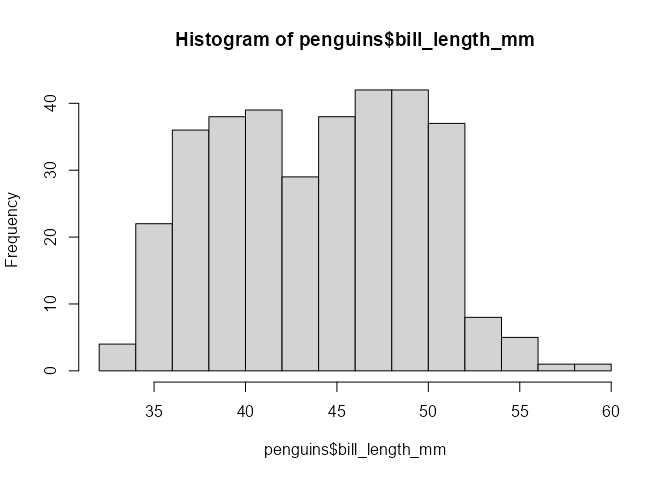
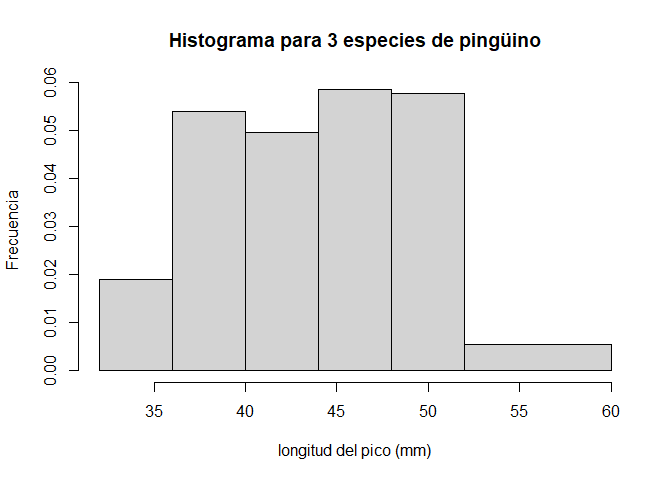
v0.1.1

diff --git a/Visualizacion_en_R.md b/Visualizacion_en_R.md
@@ -65,10 +65,10 @@ ejes y sus etiquetas, y título principal.
 hist(penguins$bill_length_mm)
 ```
 
-![](Visualizacion_en_R_files/figure-commonmark/unnamed-chunk-3-1.png)
+![](Visualizacion_en_R_files/figure-commonmark/unnamed-chunk-2-1.png)
 
 Muchos de estos elementos se pueden personalizar a través de argumentos
-de la función `hist()`. Por ejemplo el título (`main`), las etiquetas de
+de la función `hist()`. Por ejemplo el título (`main`), los nombres de
 los ejes (`xlab`, `ylab`), y los límites de los intervalos (`breaks`).
 
 ``` r
@@ -77,26 +77,26 @@ hist(penguins$bill_length_mm, xlab = "longitud del pico (mm)", ylab = "Frecuenci
      breaks = c(seq(32, 52, 4), 60))
 ```
 
-![](Visualizacion_en_R_files/figure-commonmark/unnamed-chunk-4-1.png)
+![](Visualizacion_en_R_files/figure-commonmark/unnamed-chunk-3-1.png)
 
-Como puede verse, los formación de los intervalos es muy flexible (ver
-el valor del argumento `breaks`).
+Como puede verse, la formación de los intervalos es muy flexible (ver el
+valor del argumento `breaks`).
 
 ### Gráficas de cajas y bigotes
 
 El *boxplot* también da una idea de la distribución de una variable
 numérica, en este caso para cada una de las tres especies de pingüino,
 lo cual se especifica con la tilde o virgulilla (`~`) y se lee “longitud
-del pico **en función** de la especie”. Adicionalmente esta función
+del pico **en función** de la especie”. Adicionalmente, esta función
 incorpora el argumento `data` que permite especificar en donde están las
-variables a graficar. Las etiquetas de los ejes se pueden personalizar
-con los mismos argumentos mostrados antes.
+variables a graficar. Los nombres de los ejes se pueden personalizar con
+los mismos argumentos mostrados antes.
 
 ``` r
 boxplot(bill_length_mm ~ species, data = penguins)
 ```
 
-![](Visualizacion_en_R_files/figure-commonmark/unnamed-chunk-5-1.png)
+![](Visualizacion_en_R_files/figure-commonmark/unnamed-chunk-4-1.png)
 
 ### Gráficas de dispersión
 
@@ -108,7 +108,7 @@ primera se considera como la variable `x`.
 plot(x = penguins$bill_length_mm, y = penguins$bill_depth_mm)
 ```
 
-![](Visualizacion_en_R_files/figure-commonmark/unnamed-chunk-6-1.png)
+![](Visualizacion_en_R_files/figure-commonmark/unnamed-chunk-5-1.png)
 
 Existen muchas maneras de personalizar una gráfica como la anterior. Por
 ejemplo, sabiendo que se tienen datos de tres especies, podemos utilizar
@@ -120,16 +120,22 @@ plot(penguins$bill_length_mm, penguins$bill_depth_mm,
      las = 1, pch = 16, col = penguins$species)
 ```
 
-![](Visualizacion_en_R_files/figure-commonmark/unnamed-chunk-7-1.png)
+![](Visualizacion_en_R_files/figure-commonmark/unnamed-chunk-6-1.png)
 
 El uso de `col = penguins$species` permite definir los colores porque la
 especie esta codificada como un factor (ver el resultado de evaluar
-`class(penguins$species)`). Otra forma de personalizar la figura podría
-ser incorporar transparencias a los colores y símbolos diferentes por
-especie. Para ello el ejemplo de abajo hace uso de la función `rgb()`
-que requiere especificar 3 valores correspondientes al rojo, verde y
-azul, así como un cuarto valor para la transparencia (todos entre 0 y
-1).
+`class(penguins$species)`). Otros argumentos usados en el ejemplo
+anterior son el tipo de símbolo (`pch = 16`), que en este caso es un
+círculo relleno. En la ayuda de la función `points()` se pueden ver
+otros símbolos disponibles. Por último, el argumento `las = 1` opera en
+las etiquetas de los ejes, mostrándolas de manera horizontal en este
+caso.
+
+Otra forma de personalizar la figura podría ser incorporando
+transparencias a los colores y símbolos diferentes por especie. Para
+ello el ejemplo de abajo hace uso de la función `rgb()` que requiere
+especificar 3 valores correspondientes al rojo, verde y azul, así como
+un cuarto valor para la transparencia (todos entre 0 y 1).
 
 ``` r
 sp <- levels(penguins$species)
@@ -144,15 +150,18 @@ plot(penguins$bill_length_mm, penguins$bill_depth_mm, type = "n", las = 1,
  }
 ```
 
-![](Visualizacion_en_R_files/figure-commonmark/unnamed-chunk-8-1.png)
+![](Visualizacion_en_R_files/figure-commonmark/unnamed-chunk-7-1.png)
 
 En el código previo, el llamado a la función `plot()` solo genera el
 marco del gráfico y los ejes, pero no dibuja ningún punto
 (`type = "n"`), puesto que de ello se encarga la función `points()` en
-donde se especifican la especie, colores y símbolos a utilizar.
+donde se especifican la especie, colores y símbolos a utilizar. Este
+ejemplo también hace uso de un bucle para dibujar sucesivamente los
+puntos de cada especie, así como el tipo de símbolo y los diferentes
+niveles de rojo, verde y azul en estos.
 
 Un ejemplo más para ilustrar como podemos agregar otros elementos como
-líneas de tendencia y texto es el siguiente:
+líneas de tendencia y anotaciones (texto) en la gráfico es el siguiente:
 
 ``` r
 chin <- subset(penguins, species == "Chinstrap")
@@ -164,11 +173,21 @@ plot(chin$bill_length_mm, chin$bill_depth_mm, las = 1, pch = 16,
   text(x = 41, y = 20, pos = 4, expression(paste(R^2, "=0.42")))
 ```
 
-![](Visualizacion_en_R_files/figure-commonmark/unnamed-chunk-9-1.png)
+![](Visualizacion_en_R_files/figure-commonmark/unnamed-chunk-8-1.png)
 
-Mayores detalles consultar la ayuda de la función `par()` que contiene
-los nombres y la explicación de muchos parámetros gráficos que se pueden
-controlar.
+Aquí utilizamos un subconjunto de los datos para la especie “Chinstrap”,
+para la cual dibujamos la línea de regresión entre ambas variables
+(`lm(bill_depth_mm ~ bill_length_mm)`) e incluimos el modelo resultante
+con su correspondiente valor de R<sup>2</sup>. Nótese que para esto
+último se hace uso de la función `expression()` que permite expresar el
+número 2 como exponente.
+
+Las figuras previas son solo una muestra de las posibilidades del
+sistema tradicional de gráficas en R. Se recomienda familiarizarse con
+ayuda de la función `par()` que describe una amplia gama de parámetros
+gráficos que pueden ser modificados por el usuario. También, para más
+ejemplos se pueden ejecutar las funciones `demo(graphics)` y
+`demo(persp)`.
 
 ### Gráficos especializados
 
@@ -192,7 +211,7 @@ plot(dmap, axes = TRUE, xlim = c(-120, -105), ylim = c(20, 35), las = 1,
      col = "grey90", border = "grey")
 ```
 
-![](Visualizacion_en_R_files/figure-commonmark/unnamed-chunk-10-1.png)
+![](Visualizacion_en_R_files/figure-commonmark/unnamed-chunk-9-1.png)
 
 #### Gráficas interactivas
 
@@ -205,7 +224,7 @@ echo2.038 <- read.echogram(hacfile)
 echogram(echo2.038, Svthr = -70, col.sep = 1.5, scheme = "EK500")
 ```
 
-![](Visualizacion_en_R_files/figure-commonmark/unnamed-chunk-11-1.png)
+![](Visualizacion_en_R_files/figure-commonmark/unnamed-chunk-10-1.png)
 
 #### Imágenes de satélite
 
@@ -215,7 +234,7 @@ data("dsst")
 plot(dsst, map = dmap)
 ```
 
-![](Visualizacion_en_R_files/figure-commonmark/unnamed-chunk-12-1.png)
+![](Visualizacion_en_R_files/figure-commonmark/unnamed-chunk-11-1.png)
 
 ## Gráficas grid
 
@@ -230,7 +249,7 @@ library(lattice)
 xyplot(bill_length_mm ~ bill_depth_mm | species, data = penguins)
 ```
 
-![](Visualizacion_en_R_files/figure-commonmark/unnamed-chunk-13-1.png)
+![](Visualizacion_en_R_files/figure-commonmark/unnamed-chunk-12-1.png)
 
 ### ggplot2
 
@@ -244,4 +263,4 @@ p
 
     Warning: Removed 2 rows containing missing values (`geom_point()`).
 
-![](Visualizacion_en_R_files/figure-commonmark/unnamed-chunk-14-1.png)
+![](Visualizacion_en_R_files/figure-commonmark/unnamed-chunk-13-1.png)
